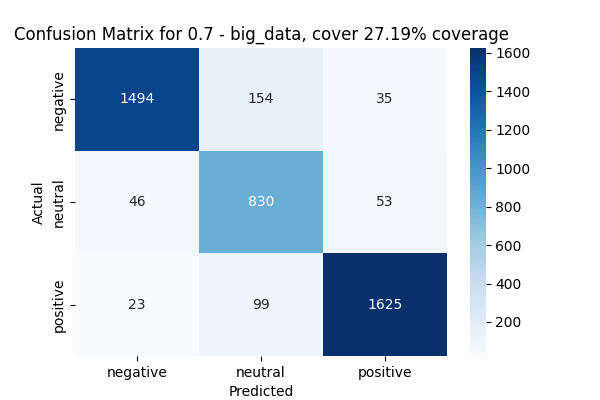
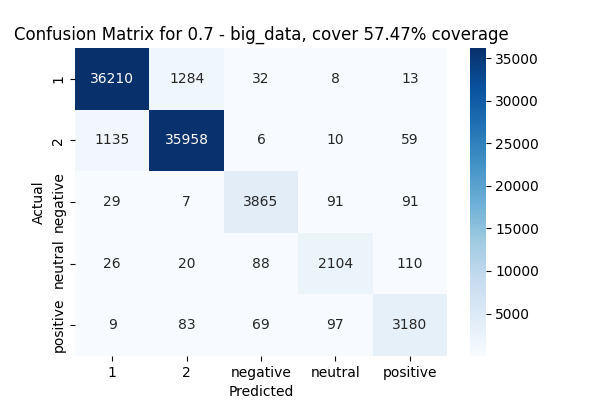
- Updated the pictures - fix the bug for seperately load the data into RFC - Modify the max_features -> 2000 - Threshold -> 60%

diff --git a/data_processing/loader.py b/data_processing/loader.py
@@ -30,6 +30,11 @@ def load_csv_data(file_name: str) -> pd.DataFrame:
         if not file_path:
             raise ValueError(f"No file paths configured for {file_name}")
         if len(file_path) == 1:
+            if file_name == "Twitter":
+                # Twitter dataset has a different column name
+                twitter_df = pd.read_csv(file_path[0])
+                twitter_df = twitter_df[twitter_df["sentiment"] != "Irrelevant"]
+                return twitter_df
             # Single file: load directly
             return pd.read_csv(file_path[0])
         if len(file_path) == 2:
@@ -94,6 +99,11 @@ def load_big_data_csv() -> pd.DataFrame:
                         ).rename(columns={"review": "text", "sentiment": "sentiment"}),
                     ],
                     ignore_index=True,
+                )
+                big_data["sentiment"] = (
+                    big_data["sentiment"]
+                    .replace({"2": "positive", "1": "negative"})
+                    .str.lower()
                 )
         if len(big_data) == 0:
             raise ValueError(

diff --git a/pipeline/core.py b/pipeline/core.py
@@ -64,7 +64,7 @@ def run_pipeline_for_dataset(dataset_name: str, config):
         x=cleaned_df["preprocess_text"],
         threshold=config.PROBABILITY_THRESHOLD,
         dataset_name=dataset_name,
-        raw_data=raw_df,
+        cleaned_data=cleaned_df,
     )
 
     logger.info("Low confidence samples saved.")
@@ -83,6 +83,7 @@ def big_data_pipeline(dataset_name: str, config):
         raise ValueError("Failed to load big data CSV.")
     cleaner = config.CLEANING_STRATEGIES.get("default")()
     cleaned_df = cleaner.big_data_clean(big_data.copy())
+    print("Unique Labels: ", cleaned_df["sentiment"].unique())
     logger.info(f"Big Data Shape: {cleaned_df.shape}")
     target_column = config.TARGET_COLUMNS.get("default")
 

diff --git a/config.py b/config.py
@@ -55,7 +55,7 @@ RANDOM_FOREST_PARAMS = {
     "random_state": 42,
     "n_jobs": -1,
 }
-MAX_FEATURES = 3000
-PROBABILITY_THRESHOLD = 0.7
+MAX_FEATURES = 2000
+PROBABILITY_THRESHOLD = 0.6
 
 REGEX_URL = r"https?://[\w.]+"  # Slightly more robust url regex
